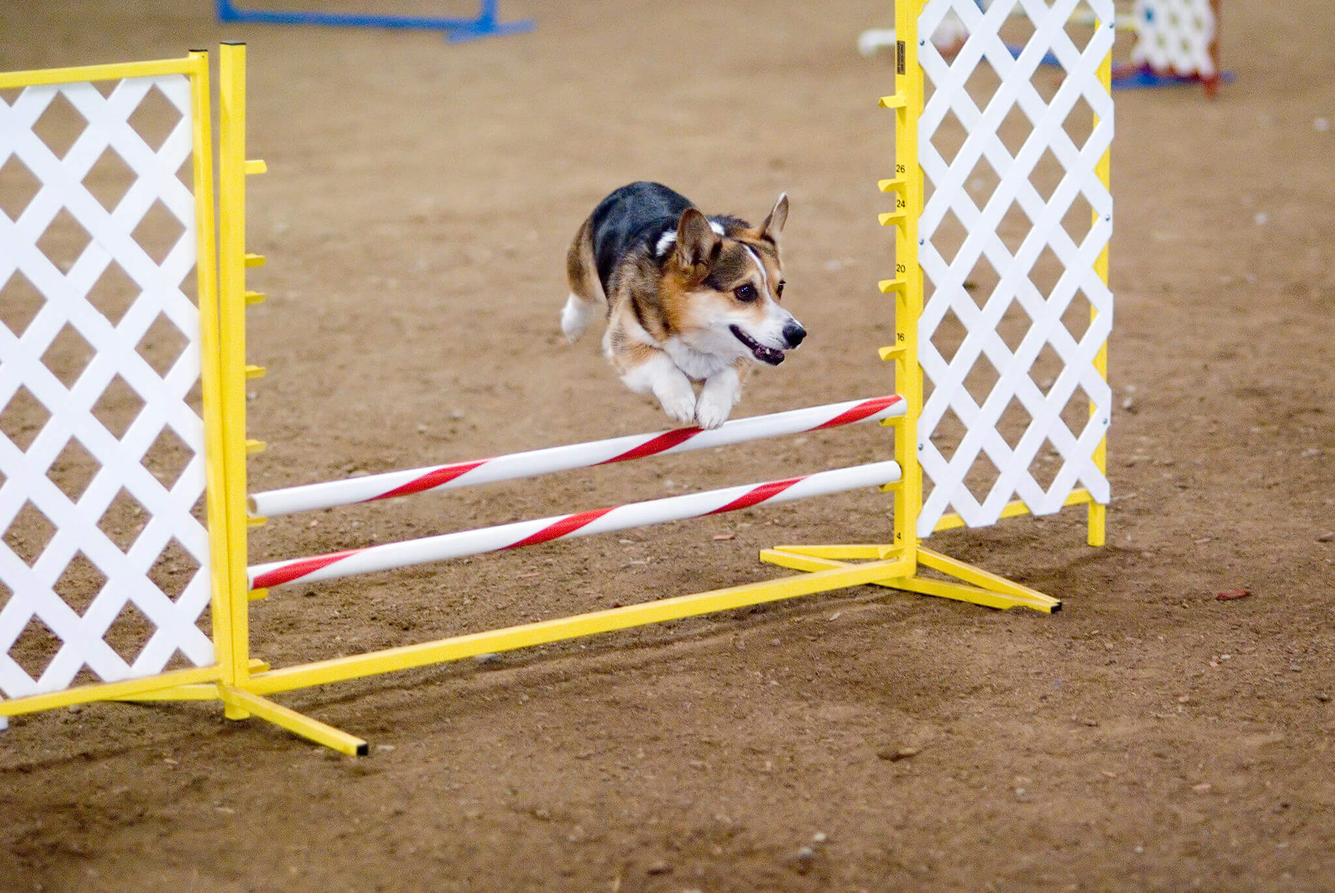
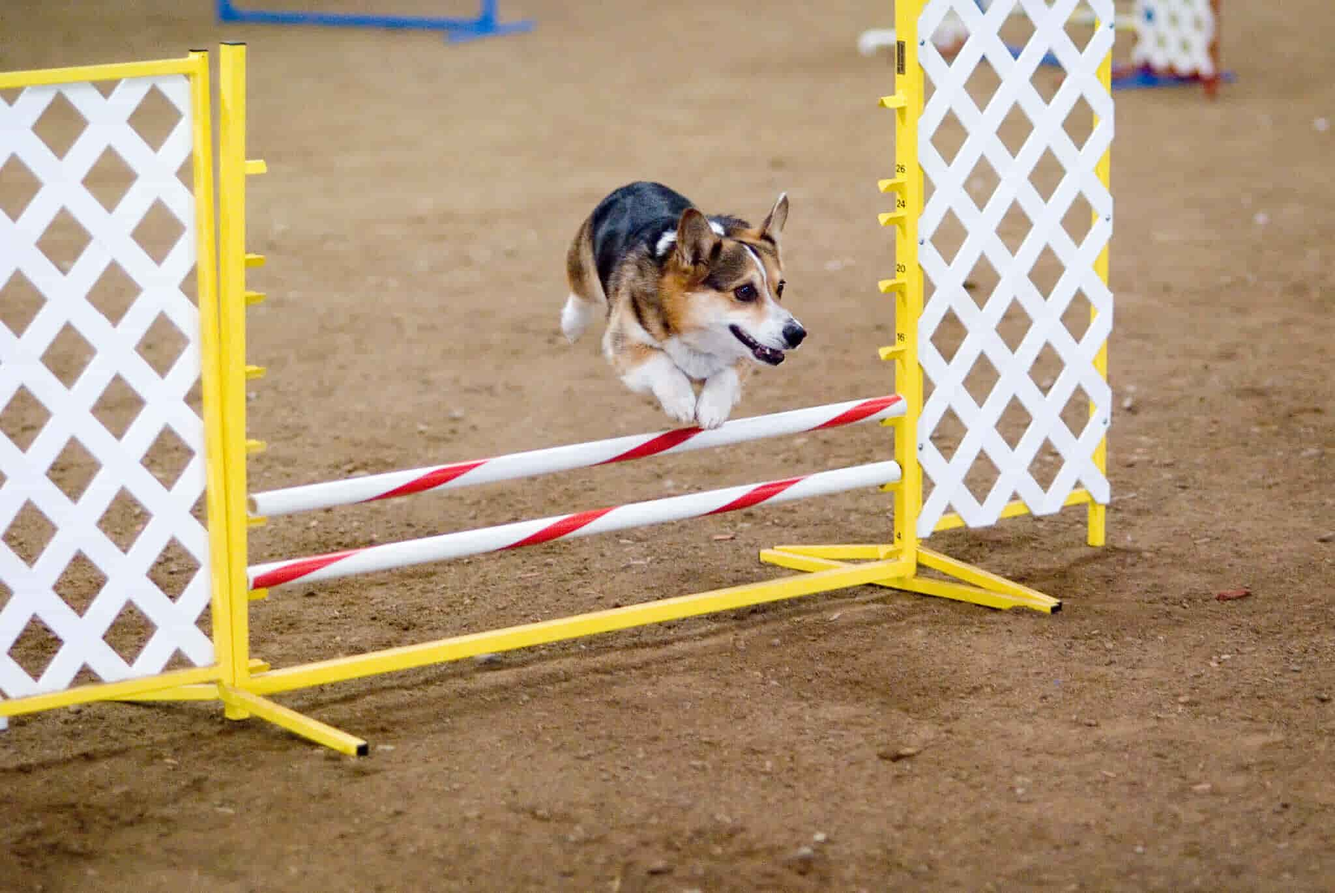
Further compressed images and converted all to jpg

diff --git a/templates/layout/base.html b/templates/layout/base.html
@@ -10,8 +10,7 @@
     <meta name="msapplication-TileColor" content="#da532c">
     <meta name="theme-color" content="#ffffff">
 	<link rel="stylesheet" href="https://cdnjs.cloudflare.com/ajax/libs/materialize/0.100.2/css/materialize.min.css">
-	<link rel="stylesheet" href="{{url_for('static', filename='css/style.css')}}" type="text/css" />
-    <!-- <link rel="stylesheet" href="{{url_for('static', filename='css/style.min.css')}}" type="text/css" /> -->
+    <link rel="stylesheet" href="{{url_for('static', filename='css/style.min.css')}}" type="text/css" />
      <!-- FAVICON -->
     <link rel="apple-touch-icon" sizes="180x180" href="static/images/favicons/apple-touch-icon.png">
     <link rel="icon" type="image/png" sizes="32x32" href="static/images/favicons/favicon-32x32.png">

diff --git a/templates/layout/header.html b/templates/layout/header.html
@@ -43,7 +43,7 @@
                 </ul>
             </div>
             <div class="col s4 logo-box">
-                <img src="./static/images/paw-logo.png" alt="Pawer Logo">
+                <img src="./static/images/paw-logo.jpg" alt="Pawer Logo">
                 <a class="pawer-logo-name" href="{{url_for('user_home')}}" >PAWER</a>
                 <div class="three-words">
                     <p>|ADOPTION</p>

diff --git a/templates/pages/index.html b/templates/pages/index.html
@@ -2,7 +2,7 @@
 {% block content %}
 		
 <div class="parallax-container">
-    <div class="parallax"><img src="/static/images/pup-basket.jpeg" alt="Puppy in a basket"></div>
+    <div class="parallax"><img src="/static/images/pup-basket.jpg" alt="Puppy in a basket"></div>
 </div>
 <div class="section white">
     <div class="row container">

diff --git a/templates/pages/requests.html b/templates/pages/requests.html
@@ -2,7 +2,7 @@
 {% extends 'layout/base.html' %}
 {% block content %}
 <div class="parallax-container">
-    <div class="parallax"><img src="/static/images/adopt-image.jpeg"></div>
+    <div class="parallax"><img src="/static/images/adopt-image.jpg"></div>
 </div>
 <div class="section white">
     <div class="container">
